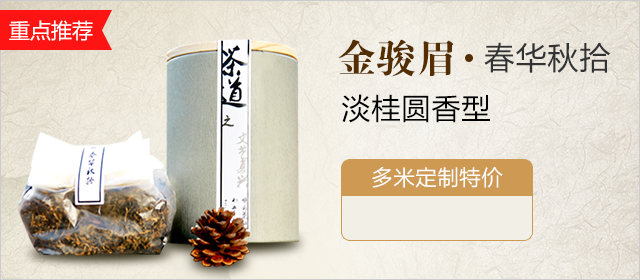
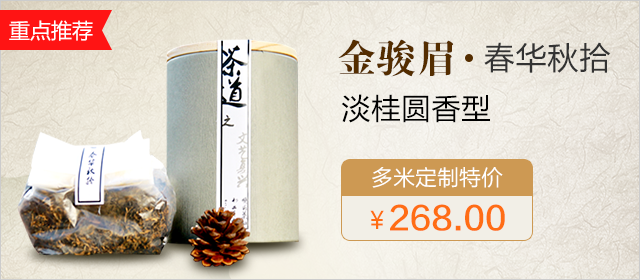
新首页专区样式调整

Changed region(s): [[0.5625, 0.7143, 0.8125, 0.8286]]

diff --git a/themes/mobiles/css/m.css b/themes/mobiles/css/m.css
@@ -3502,7 +3502,7 @@ td.cash_td2 img {
 /*2106-2-19 首页*/
 .sp_t img,.sp_utwo img{
 	width:100%;
-	height:100px;
+	height:100%;
 }
 .sp_utwo li{
 	float:left;
@@ -3589,21 +3589,23 @@ td.cash_td2 img {
   	display: -webkit-box;
   	-webkit-box-orient: vertical;
   	padding: 0;
-  	font-size: 13px;
+  	font-size: 1.6rem;
   	color: #333;
-  	line-height: 17px;
+  	line-height: 18px;
 }
 .b_tab_price{
 	margin-top:20px;
 }
 .p_color{
-	font-size:14px;
+	font-size:1.6rem;
 	color:#ff6d14;
 }
 .p_num{
 	font-size:13px;
 	color:#999;
 	float:right;
+	line-height:2.1rem;
+	
 }
 .p_ln{
 	font-size:13px;
@@ -3844,13 +3846,14 @@ td.cash_td2 img {
 	padding-bottom:5px;
 }
 .tea_info_price span{
-	font-size:14px;
+	font-size:1.4rem;
 	color:#ff6d14;
 	padding-right:10px;
 }
 .tea_info_price b{
-	font-size:10px;
+	font-size:1rem;
 	color:#999;
+	text-decoration: line-through;
 }
 /*2106-2-23 e*/
 

diff --git a/mobiles/item/tpl/mod_item_pref_teawine.htm.php b/mobiles/item/tpl/mod_item_pref_teawine.htm.php
@@ -24,17 +24,11 @@ include T('inc/pref_popup_menu');?>
 		<a href="javascript:gotoItem(1006);"><img src="/themes/mobiles/img/tea01.png"></a>
 		<a href="javascript:gotoItem(1009);"><img src="/themes/mobiles/img/tea_2.png"></a>
 		<a href="javascript:gotoItem(1011);"><img src="/themes/mobiles/img/tea03.png"></a></a>
-		<span class="tea_prices1">￥618.00</span>
-		<span class="tea_prices2">￥618.00</span>
-		<span class="tea_prices3">￥618.00</span>
 	</div>
 	<div class="tea_pro_list" data-cat='wine' style="display: none;">
 		<a href="javascript:gotoItem(1047);"><img src="/themes/mobiles/img/wine01.png"></a>
 		<a href="javascript:gotoItem(1032);"><img src="/themes/mobiles/img/wine02.png"></a>
-		<a href="javascript:gotoItem(1006);"><img src="/themes/mobiles/img/wine03.png"></a>
-		<span class="wine_prices1">￥218.00</span>
-		<span class="wine_prices2">￥98.00</span>
-		<span class="wine_prices3">￥248.00</span>
+		<!-- <a href="javascript:gotoItem(1032);"><img src="/themes/mobiles/img/wine03.png"></a> -->
 	</div>
 	<div class="tea_info_list" style="margin-top: 10px;">
 		<ul>
@@ -76,8 +70,8 @@ function tea_wine_switch(cat){
 	var tab = $("#"+cat);
 	$(".tea_and_wine li").removeClass("tw_on");
 	tab.addClass("tw_on");
-	$(".tea_pro_list").hide('slow');
-	$(".tea_pro_list[data-cat='"+cat+"']").show('slow');
+	$(".tea_pro_list").hide();
+	$(".tea_pro_list[data-cat='"+cat+"']").show();
 	$(".tea_info_list ul").empty();
 	getGoodsByCat(cat);
 	/* var _list = $("#"+cat+"list");

diff --git a/mobiles/default/tpl/mod_default_index.htm.php b/mobiles/default/tpl/mod_default_index.htm.php
@@ -80,7 +80,7 @@ window.location.reload();
 				<td style="width:110px;"><img src="<?php echo ploadingimg()?>" data-loaded="0" onload="imgLazyLoad(this,'<?=$good['goods_img']?>')"/></td>
 				<td>
 					<p class="b_tab_tit"><?=$good['goods_name'] ?></p>
-					<p class="b_tab_price"><span class="p_color">￥：<?=$good['shop_price'] ?></span><span class="p_num">仅剩<span class="p_ln"><?=$good['goods_number'] ?></span>份</span></p>
+					<p class="b_tab_price"><span class="p_color">￥<?=$good['shop_price'] ?></span><span class="p_num">仅剩<span class="p_ln"><?=$good['goods_number'] ?></span>份</span></p>
 				</td>
 			</tr>
 			<?php endforeach;?>
@@ -256,7 +256,8 @@ window.location.reload();
 		if(!promote_endtime){
 			return;
 		}
-		var EndTime= new Date(promote_endtime);
+		//兼容IOS的时间处理方式
+		var EndTime= new Date(promote_endtime.replace(/\s+/g, 'T'));
 		var NowTime = new Date();
 		var t =EndTime.getTime() - NowTime.getTime();
 		var h=Math.floor((t/(1000*60*60*24))*24);

diff --git a/mobiles/default/Default_Model.php b/mobiles/default/Default_Model.php
@@ -53,7 +53,7 @@ class Default_Model extends Model {
 	    $sql = "select g.goods_id,g.goods_name,g.goods_brief, g.shop_price,g.market_price,g.goods_img,g.goods_number 
 	           from shp_goods g, shp_package_goods pg 
                where	g.goods_id = pg.goods_id 
-               and 	g.is_on_sale = 1 and g.is_promote = 1 and g.is_delete = 0 
+               and 	g.is_on_sale = 1 and g.is_delete = 0 
                and 	pg.package_id = %d";
 	    $goods = D()->query($sql, $package_id)->fetch_array_all();
 	    if (!empty($goods)) {

diff --git a/mobiles/item/tpl/mod_item_pref_fruit.htm.php b/mobiles/item/tpl/mod_item_pref_fruit.htm.php
@@ -14,9 +14,7 @@ include T('inc/pref_popup_menu');?>
 <div class="teawinecomment">
 	<div class="tea_pro_list">
 		<!-- <a href="javescript:;"><img src="/themes/mobiles/img/fruit1.png"></a> -->
-		<a href="javascript:gotoItem(1045);"><img src="/themes/mobiles/img/fruit2.png"></a>
-		<!-- <span class="fruit_prices1">￥28.00</span> -->
-		<span class="fruit_prices2">￥88.00</span>
+		<a href="javascript:gotoItem(1045);"><img src="/themes/mobiles/img/gnqc.png"></a>
 	</div>
 	
 	<div class="tea_info_list" style="margin-top:10px;">
